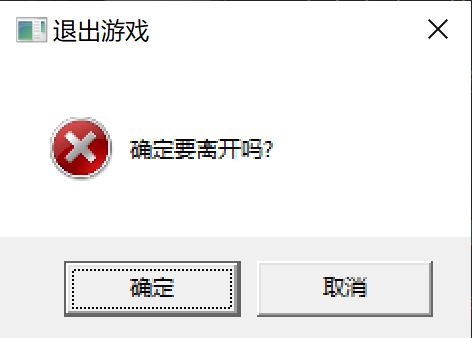
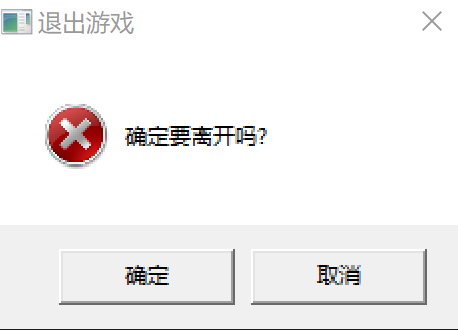
fix:退出界面素材更换 吉闻和结界任务部分位置添加延时

diff --git a/Task_SignIn.py b/Task_SignIn.py
@@ -302,6 +302,7 @@ def youqingdain(Hwnd, Account):
                     Find = Find_Click_windows(Hwnd, "./pic/Sign/Haoyou.png", 0.05, "进入好友界面", "未检测到好友界面")
                     if Find:
                         current_state = "好友界面"
+                        time.sleep(2)
                     else:
                         current_state = "end"
                 case "好友界面":

diff --git a/Task_SisFoster.py b/Task_SisFoster.py
@@ -348,7 +348,7 @@ def MainTask_Sisfoster(Hwnd, Account):
         Itface_guild(Hwnd)
 
         # 开始领取工资任务
-        time.sleep(0.5)
+        time.sleep(2)
         Work_Salary(Hwnd)
 
         # 开始结界寄养任务
